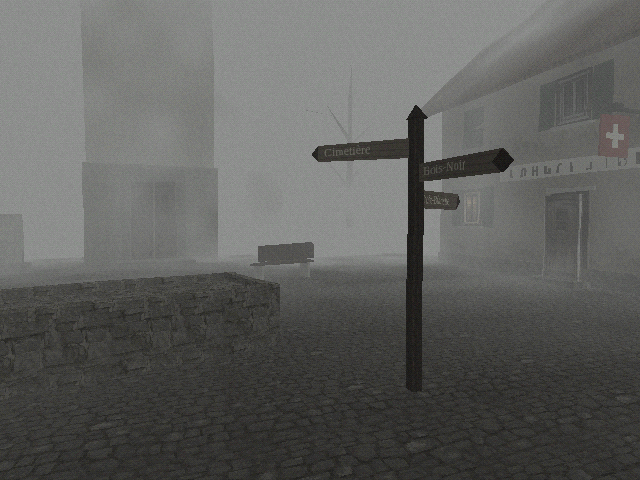
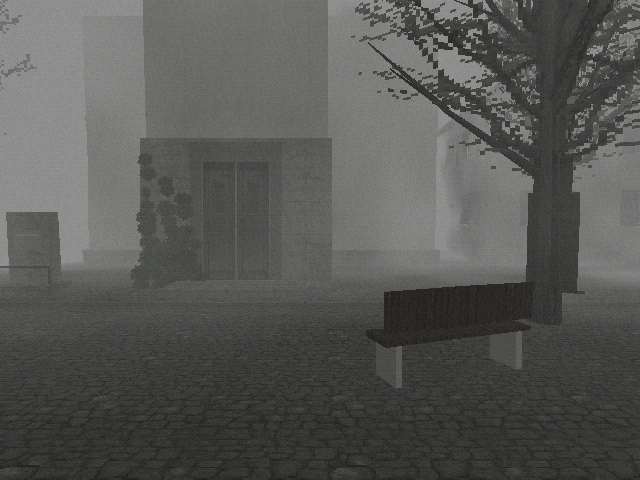
Grow the village in: limes, a walnut over the bench, orchard trees, ivy, hedges, and verges

diff --git a/src/levels/village_square/greenery.ts b/src/levels/village_square/greenery.ts
@@ -1,0 +1,94 @@
+import { bareTree, HEDGE_PLANTS, ivyCover, thicket, VERGE_PLANTS, WILD_PLANTS } from '../../game/kit/foliage';
+import type { LevelKit } from '../../game/kit/levelKit';
+import { scatter, spotsAlong } from '../../game/kit/scatter';
+import { BOUNDS, CHURCH, GREMAUD_GATE, HOUSE_1, HOUSE_2, LAITERIE } from './layout';
+
+/**
+ * What grows in Leurs in November: the limes by the church and the walnut over the bench, bare
+ * fruit trees in the gardens, ivy up the old walls, hedges gone shaggy, and the uncut verges
+ * of dead grass and bramble along the roads out. All alpha cards, like the forest.
+ */
+export function greenery(kit: LevelKit): void {
+  trees(kit);
+  ivy(kit);
+  hedges(kit);
+  verges(kit);
+}
+
+function trees(kit: LevelKit): void {
+  const lime = (seed: string) => bareTree(seed, { height: 10.5, crownBase: 3, spread: 1.05, leaves: 0.15, ivy: true });
+  kit.trees([lime('church-west'), lime('church-east')], [
+    { x: -8.6, z: -12.6, yaw: 20 },
+    { x: 8.4, z: -13.2, scale: 0.95, yaw: 140 },
+  ]).collider().shade(0.1);
+  // The walnut over the bench on the square, old and broad, a few black leaves still on it.
+  kit.trees(bareTree('walnut', { height: 9, crownBase: 2.4, spread: 1.5, leaves: 0.3 }), [{ x: 5.6, z: -8.6, yaw: 200 }]).collider();
+  const orchard = (seed: string) => bareTree(seed, { height: 5.2, crownBase: 1.4, spread: 1.6, leaves: 0.4 });
+  kit
+    .trees([orchard('apple-a'), orchard('apple-b'), orchard('pear')], [
+      { x: -15, z: 26, scale: 0.9 },
+      { x: 21, z: 5, yaw: 70 },
+      { x: -26, z: -14 },
+      { x: 26, z: 20, scale: 0.95, yaw: 200 },
+      { x: -28, z: 22, yaw: 120 },
+      { x: -24.5, z: 25.5, scale: 0.85, yaw: 300 },
+    ])
+    .collider()
+    .shade(0.12);
+  const { x0, x1, z0 } = BOUNDS;
+  kit.trees('spruce', scatter({ x: (x0 + x1) / 2, z: z0 + 6, w: x1 - x0, d: 8, count: 18, seed: 'village-spruce-north', spacing: 4, scale: [1.1, 1.5], avoid: (x) => Math.abs(x + 10) < 4 })).collider().shade(0.12);
+}
+
+/** Ivy up the church's west side and tower foot, the laiterie's gable, and the Gremaud garden wall. */
+function ivy(kit: LevelKit): void {
+  const sheet = (seed: string, w: number, h: number) => ivyCover(seed, { w, h });
+  const towerSide = CHURCH.x - CHURCH.tower / 2;
+  const naveSide = CHURCH.x - CHURCH.w / 2 - 0.15;
+  // Turned so each sheet's +Z faces out from its wall: -90 faces west, 180 north.
+  kit.trees([sheet('nave-a', 3.4, 5.5), sheet('nave-b', 2.6, 3.8)], [
+    { x: naveSide, z: CHURCH.front - CHURCH.tower - 2.2, yaw: -90 },
+    { x: naveSide, z: CHURCH.front - CHURCH.tower - 9, yaw: -90 },
+  ]);
+  kit.trees(sheet('tower', 1.4, 3.4), [
+    { x: towerSide + 0.7, z: CHURCH.front + 0.03, yaw: 0 },
+    { x: towerSide - 0.03, z: CHURCH.front - 1.2, yaw: -90 },
+  ]);
+  kit.trees(sheet('laiterie', 3, 4.2), [{ x: LAITERIE.x - 2.5, z: LAITERIE.z - LAITERIE.w / 2 - 0.03, yaw: 180 }]);
+  kit.trees(sheet('gremaud-wall', 2.2, 0.9), spotsAlong([[GREMAUD_GATE.x - 0.2, GREMAUD_GATE.z - 6], [GREMAUD_GATE.x - 0.2, GREMAUD_GATE.z - 1.4]], { step: 2.3, seed: 'gremaud-ivy' }).map((s) => ({ ...s, yaw: -90 })));
+}
+
+/** Garden hedges behind the two houses with doors, and a wild one round the far orchard. */
+function hedges(kit: LevelKit): void {
+  const hedge = (seed: string) => thicket(seed, { length: 2.6, depth: 1, count: 9, plants: HEDGE_PLANTS });
+  const wild = (seed: string) => thicket(seed, { length: 2.8, depth: 1.4, count: 9, plants: WILD_PLANTS });
+  const behindOne = HOUSE_1.z - 6.6;
+  kit.trees([hedge('house-1-a'), hedge('house-1-b')], spotsAlong([[HOUSE_1.x - 6, behindOne], [HOUSE_1.x + 4.5, behindOne]], { step: 2.1, seed: 'house-1', jitter: 0.15 }));
+  const besideTwo = HOUSE_2.x + 5.6;
+  kit.trees([hedge('house-2-a'), hedge('house-2-b')], spotsAlong([[besideTwo, HOUSE_2.z - 3.4], [besideTwo, HOUSE_2.z + 5]], { step: 2.1, seed: 'house-2', jitter: 0.15 }));
+  kit.trees([wild('orchard-a'), wild('orchard-b')], spotsAlong([[-31, 18.5], [-21, 18.5], [-20.5, 30]], { step: 2.4, seed: 'orchard', jitter: 0.3 }));
+  // Bushes at the corners of the laiterie and the garage, where nobody mows.
+  kit.trees([thicket('corner-a', { length: 1.4, depth: 1.2, count: 4, plants: WILD_PLANTS }), thicket('corner-b', { length: 1.6, depth: 1.2, count: 5, plants: HEDGE_PLANTS })], [
+    { x: LAITERIE.x - 5.4, z: LAITERIE.z - 4.6 },
+    { x: 19.6, z: 19.9, yaw: 30 },
+    { x: -15.8, z: 27.6, yaw: 80 },
+    { x: 20.4, z: 32, yaw: 10 },
+  ]);
+}
+
+/** Dead grass, bramble, and fern along both roads out and at the foot of the Gremaud garden wall. */
+function verges(kit: LevelKit): void {
+  const models = ['a', 'b', 'c'].map((seed) => thicket(`verge-${seed}`, { length: 2.2, depth: 0.8, count: 10, plants: VERGE_PLANTS }));
+  const lines: [number, number][][] = [
+    // The road west, both sides, from the bus stop out into the fog.
+    [[-47, 12.1], [-27.5, 12.1]],
+    [[-15.5, 12.1], [-13, 12.1]],
+    [[-47, 4.9], [-13.5, 4.9]],
+    // The road south past the garage, out to the Yerly farm.
+    [[1, 33], [1, 55]],
+    [[8.3, 34], [8.3, 55]],
+    // The street side of the Gremaud garden wall.
+    [[GREMAUD_GATE.x - 0.45, GREMAUD_GATE.z - 6], [GREMAUD_GATE.x - 0.45, GREMAUD_GATE.z - 1.3]],
+    [[GREMAUD_GATE.x - 0.45, GREMAUD_GATE.z + 1.3], [GREMAUD_GATE.x - 0.45, GREMAUD_GATE.z + 6]],
+  ];
+  kit.trees(models, lines.flatMap((line, i) => spotsAlong(line, { step: 1.6, seed: `verge-${i}`, jitter: 0.3, scale: [0.8, 1.2] })));
+}

diff --git a/src/levels/village_square/streets.ts b/src/levels/village_square/streets.ts
@@ -43,20 +43,6 @@ export function ground(kit: LevelKit): void {
     distanceToTrails(roads, x, z) < ROAD_WIDTH / 2 + 0.6 || (Math.abs(x - SQUARE.x) < SQUARE.w / 2 + 0.5 && Math.abs(z - SQUARE.z) < SQUARE.d / 2 + 0.5);
   const tufts = scatter({ x: cx, z: cz, w: w - 24, d: d - 24, count: 420, seed: 'village-tufts', spacing: 1.3, scale: [0.6, 1.2], avoid: paved });
   billboards(kit, { texture: 'grass_tuft', w: 0.8, h: 0.45, color: 0x7a7c66, sink: 0.04 }, tufts);
-  // Lime trees by the church and a few bare fruit trees in the gardens.
-  kit
-    .trees('bare', [
-      { x: -8.6, z: -12.6, scale: 1.25, yaw: 20 },
-      { x: 8.4, z: -13.2, scale: 1.15, yaw: 140 },
-      { x: -15, z: 26, scale: 0.7 },
-      { x: 21, z: 5, scale: 0.75, yaw: 70 },
-      { x: -26, z: -14, scale: 0.8 },
-      { x: 26, z: 20, scale: 0.7, yaw: 200 },
-    ])
-    .collider();
-  kit
-    .trees('spruce', scatter({ x: cx, z: BOUNDS.z0 + 6, w: w - 20, d: 8, count: 18, seed: 'village-spruce-north', spacing: 4, scale: [1.1, 1.5], avoid: (x) => Math.abs(x + 10) < 4 }))
-    .collider();
 }
 
 export interface Street {

diff --git a/src/levels/village_square/index.ts b/src/levels/village_square/index.ts
@@ -10,6 +10,7 @@ import { BUS_STOP, FOUNTAIN, GREMAUD_GATE, HOUSE_1, HOUSE_2, spawns } from './la
 import { bicycle } from './props';
 import { arrival, departure } from './postbus';
 import { fountainWater, televisionThroughWall } from './sounds';
+import { greenery } from './greenery';
 import { exits, ground, streetFurniture } from './streets';
 
 /**
@@ -38,6 +39,7 @@ export const villageSquareScene = defineScene({
     // Everything that stands still goes into one batch; the parts beats move are marked dynamic.
     const { church, abbe, home, houseTwo, street } = kit.batch((still) => {
       ground(still);
+      greenery(still);
       inn(still, night);
       laiterie(still, night);
       garage(still, night);
